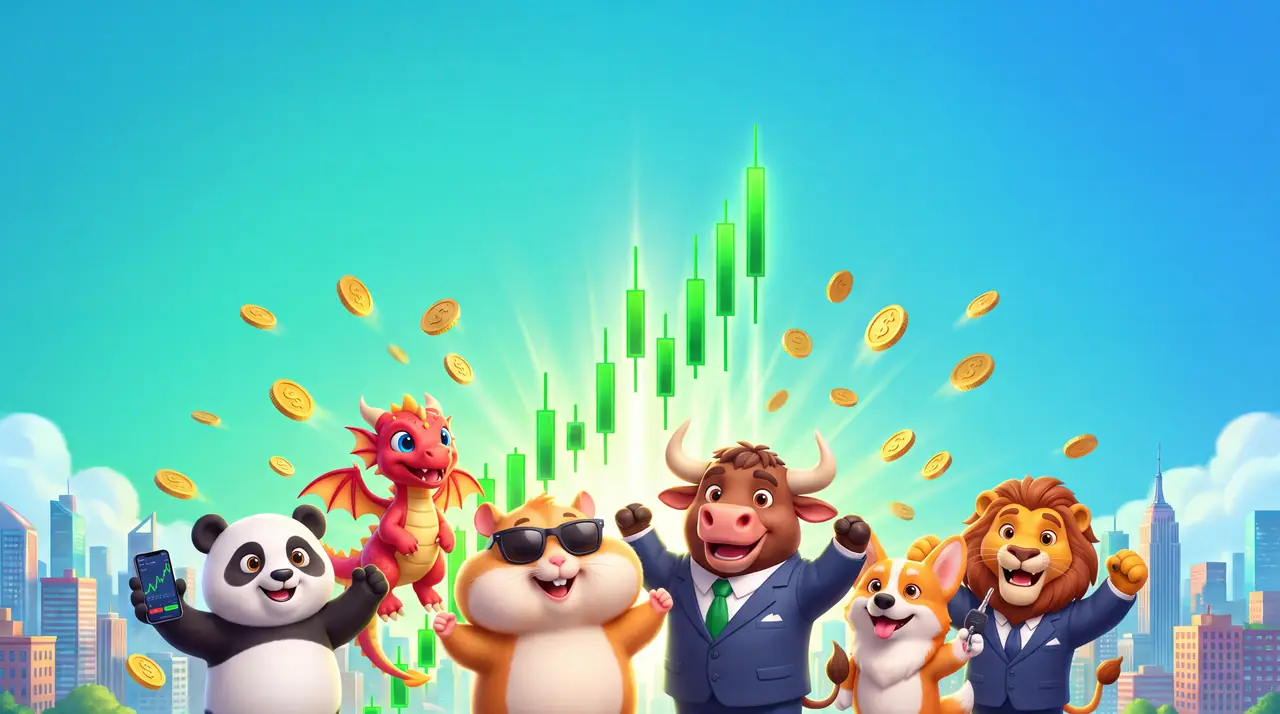
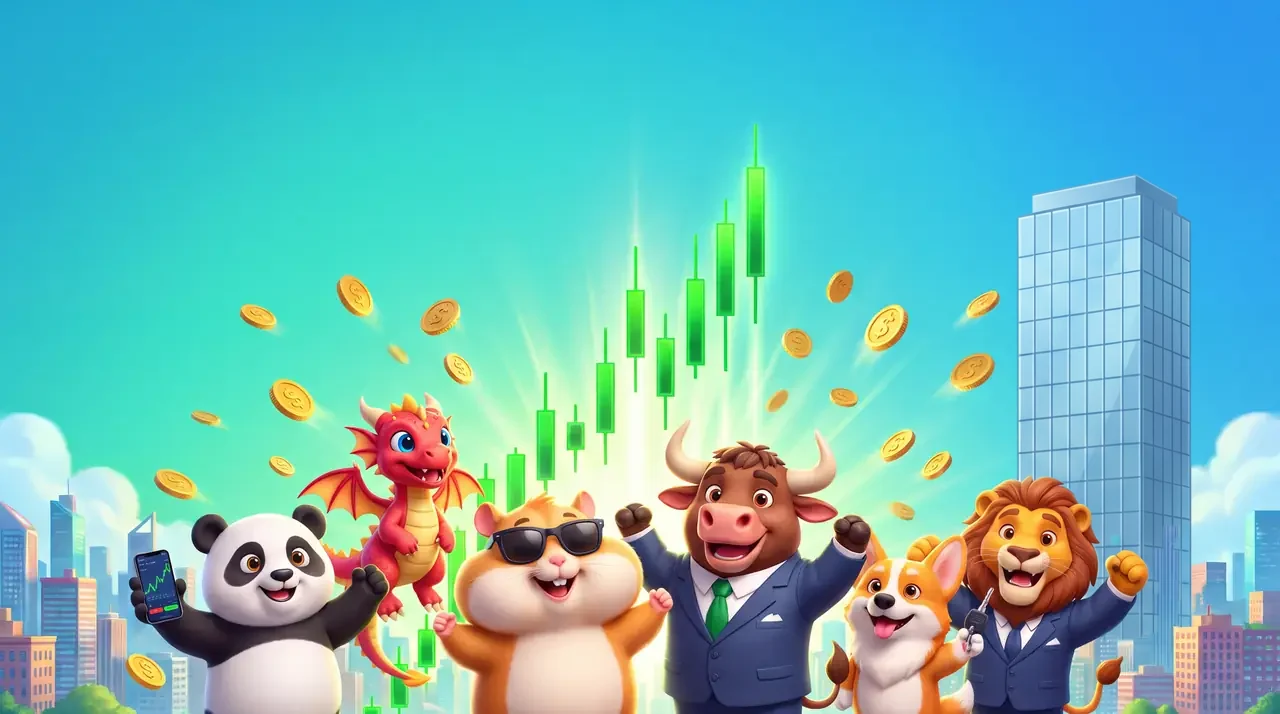
game: v3.1.7 — a generic glass tower replaces the landmark-like skyscraper
The license audit flagged an Empire State Building look-alike (stepped
crown and spire) in the title backgrounds, the share image and the
"cloudtop skyscraper" collectible icon. The owner chose a Higgsfield
redraw (Nano Banana 2, 7 credits, approved before spending) over a local
retouch.

- intro_landscape_ko/_v3 (and the unused plain one): only the pixels
  where the new glass tower differs from the original are composited in,
  so the characters, candles and the rest stay pixel-identical.
- og.png: the same tower is placed behind the title text; og:image
  cache key bumped to ?v=61 (KO head and i18n/build.py).
- ui/skyscraper.webp: new generic office-tower icon in the same 3D,
  dark-outline style as the other icons.

Tests: v317 passes; KO/EN builds have 0 missing strings and no Hangul in EN.

Claude-Session: https://claude.ai/code/session_01QZ3L7dZb4Qjw7JpHHVpWAq

Changed region(s): [[0.7812, 0.2465, 0.9375, 0.8936], [0.7812, 0.8627, 0.8125, 0.8936]]

diff --git a/game/index.html b/game/index.html
@@ -13,7 +13,7 @@
 <meta property="og:type" content="website">
 <meta property="og:title" content="떡상 계좌 키우기 📈 폭락 전에 팔아라">
 <meta property="og:description" content="폭락 전에 팔고 계좌를 키워라. 고시원에서 달 기지까지. 무료 · 설치 없음 · 가상 머니">
-<meta property="og:image" content="https://melange-lab.github.io/og.png?v=60"><meta property="og:image:alt" content="떡상 계좌 키우기 · 무료 주식 타이밍 게임 · 가상 머니">
+<meta property="og:image" content="https://melange-lab.github.io/og.png?v=61"><meta property="og:image:alt" content="떡상 계좌 키우기 · 무료 주식 타이밍 게임 · 가상 머니">
 <meta property="og:image:width" content="1200"><meta property="og:image:height" content="630">
 <meta property="og:url" content="https://melange-lab.github.io/">
 <meta name="twitter:card" content="summary_large_image">

diff --git a/game/en/index.html b/game/en/index.html
@@ -12,7 +12,7 @@
 <meta property="og:type" content="website">
 <meta property="og:title" content="Peakopia 📈 Sell before the crash">
 <meta property="og:description" content="Sell before the crash and grow your account. Free · No install · Virtual money">
-<meta property="og:image" content="https://melange-lab.github.io/og.png?v=60"><meta property="og:image:alt" content="Peakopia · free stock-timing game · virtual money">
+<meta property="og:image" content="https://melange-lab.github.io/og.png?v=61"><meta property="og:image:alt" content="Peakopia · free stock-timing game · virtual money">
 <meta property="og:image:width" content="1200"><meta property="og:image:height" content="630">
 <meta property="og:url" content="https://melange-lab.github.io/en/">
 <meta name="twitter:card" content="summary_large_image">

diff --git a/game/i18n/build.py b/game/i18n/build.py
@@ -22,8 +22,8 @@ import re as _re
 K=open('/home/user/Vibe-Trading/game/index.html').read().split('\n')[:22]
 H='\n'.join(K)+'\n'
 H=H.replace(',user-scalable=no','') # 확대 허용 (접근성)
-H,n=_re.subn(r'og\.png\?v=\d+"','og.png?v=60"',H);assert n==1,'og:image line missing in the deploy head' # mk.sh와 같은 OG 주소 꼬리표
-H=_re.sub(r'<meta property="og:image:alt" content="[^"]*">','',H);H=H.replace('og.png?v=60">','og.png?v=60"><meta property="og:image:alt" content="Peakopia · free stock-timing game · virtual money">',1)
+H,n=_re.subn(r'og\.png\?v=\d+"','og.png?v=61"',H);assert n==1,'og:image line missing in the deploy head' # mk.sh와 같은 OG 주소 꼬리표
+H=_re.sub(r'<meta property="og:image:alt" content="[^"]*">','',H);H=H.replace('og.png?v=61">','og.png?v=61"><meta property="og:image:alt" content="Peakopia · free stock-timing game · virtual money">',1)
 assert 'user-scalable=no' not in H
 for a,b in [('lang="ko"','lang="en"'),('content="떡상계좌"','content="Peakopia"'),
  ('<link rel="manifest" href="manifest.webmanifest">\n',''),('href="apple-touch-icon.png"','href="../apple-touch-icon.png"'),('href="icon-192.png"','href="../icon-192.png"')]:H=H.replace(a,b)
